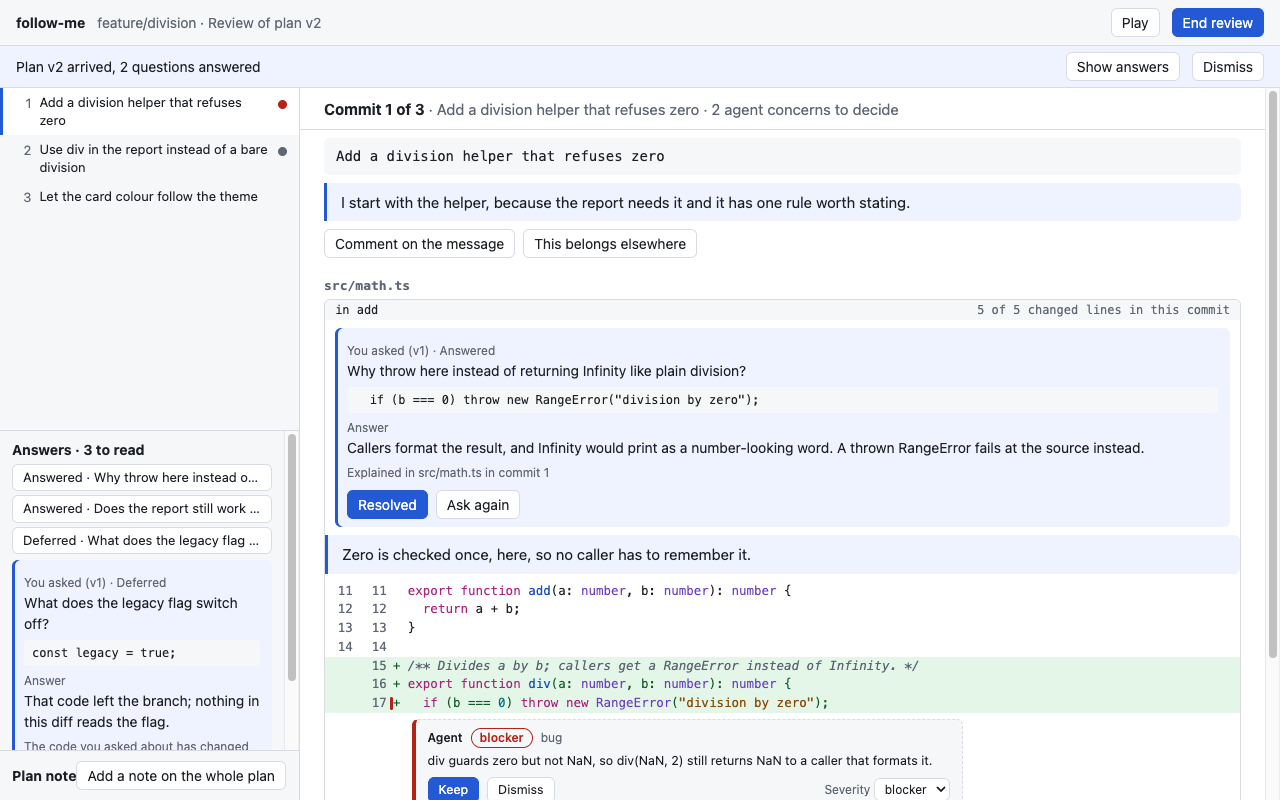
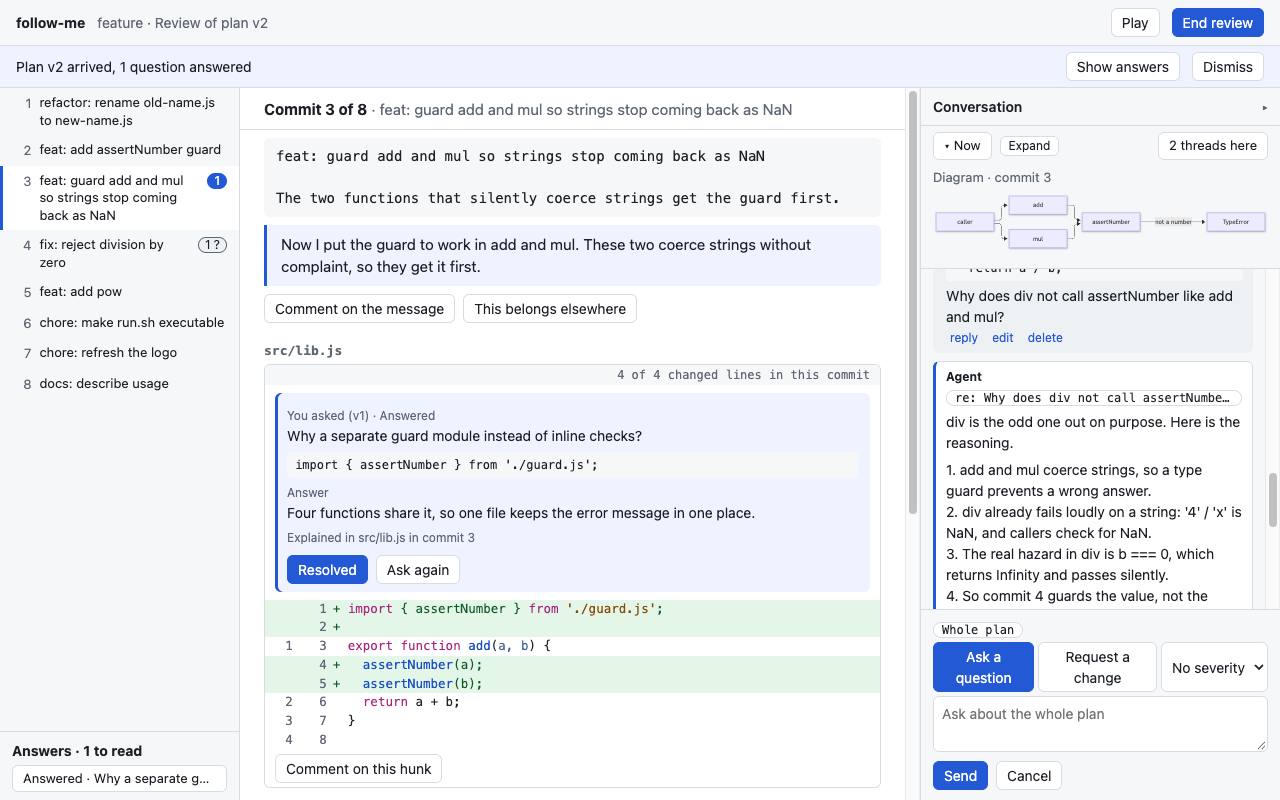
docs(ui): show the conversation panel in the screenshots
Replace review.png and answers.png and add conversation.png. They come
from a static state that stubs the new server fields (offsets, author,
diagram, decidedAt), since the server half was not merged.

diff --git a/ui/style.css b/ui/style.css
@@ -1378,16 +1378,22 @@ body.index {
   display: flex;
   align-items: center;
   gap: 8px;
+  flex-wrap: wrap;
   padding: 6px 12px;
   font-size: 13px;
-  white-space: nowrap;
 }
 
 .now-head .muted {
-  flex: 1;
+  order: 3;
+  flex: 1 0 100%;
   min-width: 0;
   overflow: hidden;
   text-overflow: ellipsis;
+  white-space: nowrap;
+}
+
+.threads-here {
+  margin-left: auto;
 }
 
 #now-toggle::before {
@@ -1768,4 +1774,8 @@ button.anchor-chip:hover {
 
 .dialog-body:not(.fit) svg {
   max-width: none;
+}
+
+.entry.system .said {
+  margin-left: 0.4em;
 }
